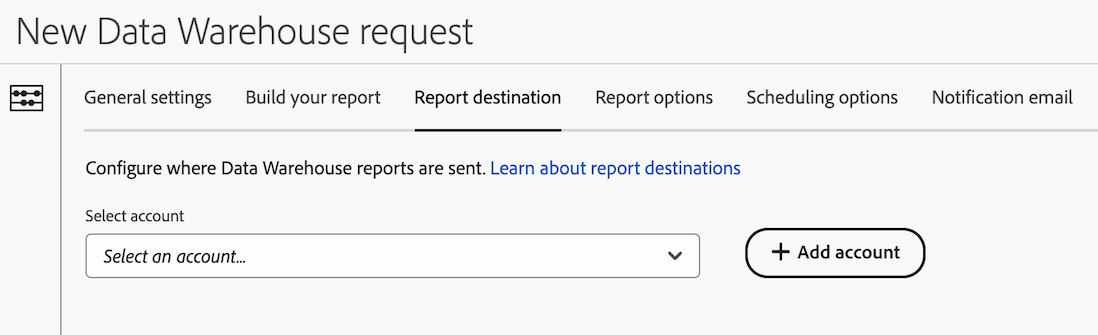
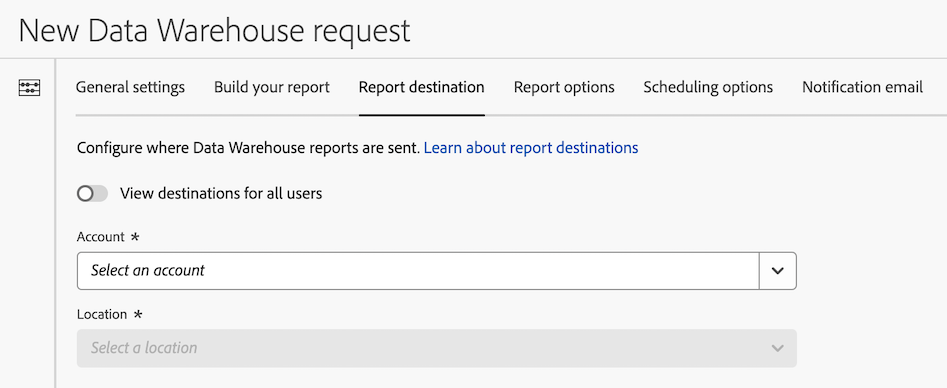
Customer feedback updates

Changed region(s): [[0.0, 0.0299, 1.0, 1.0], [0.0919, 0.8657, 0.2144, 0.9254], [0.6125, 0.806, 0.6431, 0.8358]]

diff --git a/help/export/data-warehouse/create-request/dw-request-report-destinations.md b/help/export/data-warehouse/create-request/dw-request-report-destinations.md
@@ -46,7 +46,7 @@ To configure the destination where Data Warehouse reports are sent:
    >
    >If you are a system administrator, the [!UICONTROL **Show all destinations**] option is available. Enable this option if you want to have access to all accounts and locations that were created by any user in the organization.
    
-   1. Select the account from the [!UICONTROL **Select account**] drop-down menu.
+   1. Select the account from the [!UICONTROL **Account**] drop-down menu.
 
       Any cloud accounts that you configured in any of the following areas of Adobe Analytics are available to use:
       
@@ -60,26 +60,30 @@ To configure the destination where Data Warehouse reports are sent:
 
 1. (Conditional) If you don't have access to a cloud account that is already configured in Adobe Analytics, you can configure one:
 
-   1. Select [!UICONTROL **Add account**], then specify the following information:
+   1. Select the [!UICONTROL **Account**] drop-down menu, then select [!UICONTROL **Add account**].
+   
+   1. On the Add account dialog box, specify the following information:
 
       |Field | Function | 
       |---------|----------|
-      | [!UICONTROL **Account type**] | Select your cloud account type. We recommend having a single account for each account type, with multiple locations as needed within that account. <p>After choosing an account type, fields specific to that account type appear. </p>| 
-      | [!UICONTROL **Account name**] | Specify a name for the account. This name appears when creating a location. <!-- true? --> | 
-      | [!UICONTROL **Account description**] | Provide a short description of the account to help differentiate it from other accounts of the same account type. |
+      | [!UICONTROL **Location account name**] | The name of the location account. This name appears when creating a location | 
+      | [!UICONTROL **Location account description**] | Provide a short description of the account to help differentiate it from other accounts of the same account type. |
+      | [!UICONTROL **Make account available to all users in your organization**] | Enable this option to allow other users in your organization to use the account.<p>Consider the following when sharing accounts:</p><ul><li>Accounts that you share cannot be unshared.</li><li>Shared accounts can be edited only by the owner of the account.</li><li>Anyone can create a location for the shared account.</li></ul> |
+      | [!UICONTROL **Account type**] | Select your cloud account type. We recommend having a single account for each account type, with multiple locations as needed within that account.<p>System administrators can limit the account types that users can create, as described in [Configure whether users can create accounts](/help/components/locations/locations-manager.md#configure-whether-users-can-create-accounts). If you can't create accounts as described in this section, contact your system administrator.</p> | 
 
-      For configuration instructions, expand the section below that corresponds to the [!UICONTROL **Account type**] that you selected.
+   1. In the [!UICONTROL **Account properties**] section, specify information specific to the account type that you selected.  
 
-      Use any of the following account types when configuring a report destination. For configuration instructions, expand the account type. (Additional [legacy destinations](#legacy-destinations) are also available, but are not recommended.) 
+      For configuration instructions, expand the section below that corresponds to the [!UICONTROL **Account type**] that you selected. (Additional legacy account types are also available, but are not recommended.)
 
-      +++Amazon S3
+      **Account types**
+
+      +++Amazon S3 Role ARN
 
          To configure an Amazon S3 Role ARN account, specify the following information:
 
          |Field | Function | 
          |---------|----------|
-         | [!UICONTROL **Role ARN**] | You must provide a Role ARN (Amazon Resource Name) that Adobe can use to gain access to the Amazon S3 account. To do this, you create an IAM permission policy for the source account, attach the policy to a user, and then create a role for the destination account. For specific information, see [this AWS documentation](https://aws.amazon.com/premiumsupport/knowledge-center/cross-account-access-iam/).<p>For information about how to set up the permission of the bucket, see the article [How can I provide cross-account access to objects that are in Amazon S3 buckets?](https://repost.aws/knowledge-center/cross-account-access-s3) in the Amazon knowledge center. | 
-         | [!UICONTROL **User ARN**] | The User ARN (Amazon Resource Name) is provided by Adobe. You must attach this user to the policy you created. | 
+         | [!UICONTROL **Role ARN**] | You must provide a Role ARN (Amazon Resource Name) that Adobe can use to gain access to the Amazon S3 account. To do this, you create an IAM permission policy for the source account, attach the policy to a user, and then create a role for the destination account. For specific information, see [this AWS documentation](https://aws.amazon.com/premiumsupport/knowledge-center/cross-account-access-iam/). | 
 
          {style="table-layout:auto"}
 
@@ -105,9 +109,9 @@ To configure the destination where Data Warehouse reports are sent:
          |---------|----------|
          | [!UICONTROL **Application ID**] | Copy this ID from the Azure application that you created. In Microsoft Azure, this information is located on the **Overview** tab within your application. For more information, see the [Microsoft Azure documentation about how to register an application with the Microsoft identity platform](https://learn.microsoft.com/en-us/azure/active-directory/develop/quickstart-register-app). | 
          | [!UICONTROL **Tenant ID**] | Copy this ID from the Azure application that you created. In Microsoft Azure, this information is located on the **Overview** tab within your application. For more information, see the [Microsoft Azure documentation about how to register an application with the Microsoft identity platform](https://learn.microsoft.com/en-us/azure/active-directory/develop/quickstart-register-app). |
-         | [!UICONTROL **Key vault URI**] | <p>The path to the SAS URI in Azure Key Vault.  To configure Azure SAS, you need to store an SAS URI as a secret using Azure Key Vault. For information, see the [Microsoft Azure documentation about how to set and retrieve a secret from Azure Key Vault](https://learn.microsoft.com/en-us/azure/key-vault/secrets/quick-create-portal?source=recommendations).</p><p>After the key vault URI is created:<ul><li>Add an access policy on the Key Vault in order to grant permission to the Azure application that you created.</li><li>Make sure the Application ID has been granted the `Key Vault Certificate User` built-in role in order to access the key vault URI.</br><p>For more information, see [Azure built-in roles](https://learn.microsoft.com/en-us/azure/role-based-access-control/built-in-roles).</p></li></ul><p>For information, see the [Microsoft Azure documentation about how to assign a Key Vault access policy](https://learn.microsoft.com/en-us/azure/key-vault/general/assign-access-policy?tabs=azure-portal).</p> | 
-         | [!UICONTROL **Key vault secret name**] | The secret name you created when adding the secret to Azure Key Vault. In Microsoft Azure, this information is located in the Key Vault you created, on the **Key Vault** settings pages. For information, see the [Microsoft Azure documentation about how to set and retrieve a secret from Azure Key Vault](https://learn.microsoft.com/en-us/azure/key-vault/secrets/quick-create-portal?source=recommendations). |
-         | [!UICONTROL **Secret**] | Copy the secret from the Azure application that you created. In Microsoft Azure, this information is located on the **Certificates & secrets** tab within your application. For more information, see the [Microsoft Azure documentation about how to register an application with the Microsoft identity platform](https://learn.microsoft.com/en-us/azure/active-directory/develop/quickstart-register-app). |
+         | [!UICONTROL **Key vault URI**] | <p>The path to the SAS token in Azure Key Vault.  To configure Azure SAS, you must store an SAS token as a secret using Azure Key Vault. For information, see the [Microsoft Azure documentation about how to set and retrieve a secret from Azure Key Vault](https://learn.microsoft.com/en-us/azure/key-vault/secrets/quick-create-portal?source=recommendations).</p><p>After the key vault URI is created, add an access policy on the Key Vault to grant permission to the Azure application that you created. For information, see the [Microsoft Azure documentation about how to assign a Key Vault access policy](https://learn.microsoft.com/en-us/azure/key-vault/general/assign-access-policy?tabs=azure-portal).</p> | 
+         | [!UICONTROL **Key vault secret name**] | The secret name that you created when adding the secret to Azure Key Vault. In Microsoft Azure, this information is located in the Key Vault you created, on the **Key Vault** settings page. For information, see the [Microsoft Azure documentation about how to set and retrieve a secret from Azure Key Vault](https://learn.microsoft.com/en-us/azure/key-vault/secrets/quick-create-portal?source=recommendations). |
+         | [!UICONTROL **Location account secret**] | Copy the secret from the Azure application that you created. In Microsoft Azure, this information is located on the **Certificates & secrets** tab within your application. For more information, see the [Microsoft Azure documentation about how to register an application with the Microsoft identity platform](https://learn.microsoft.com/en-us/azure/active-directory/develop/quickstart-register-app). |
 
          {style="table-layout:auto"}
 
@@ -121,7 +125,7 @@ To configure the destination where Data Warehouse reports are sent:
          |---------|----------|
          | [!UICONTROL **Application ID**] | Copy this ID from the Azure application that you created. In Microsoft Azure, this information is located on the **Overview** tab within your application. For more information, see the [Microsoft Azure documentation about how to register an application with the Microsoft identity platform](https://learn.microsoft.com/en-us/azure/active-directory/develop/quickstart-register-app). | 
          | [!UICONTROL **Tenant ID**] | Copy this ID from the Azure application that you created. In Microsoft Azure, this information is located on the **Overview** tab within your application. For more information, see the [Microsoft Azure documentation about how to register an application with the Microsoft identity platform](https://learn.microsoft.com/en-us/azure/active-directory/develop/quickstart-register-app). | 
-         | [!UICONTROL **Secret**] | Copy the secret from the Azure application that you created. In Microsoft Azure, this information is located on the **Certificates & secrets** tab within your application. For more information, see the [Microsoft Azure documentation about how to register an application with the Microsoft identity platform](https://learn.microsoft.com/en-us/azure/active-directory/develop/quickstart-register-app). | 
+         | [!UICONTROL **Location account secret**] | Copy the secret from the Azure application that you created. In Microsoft Azure, this information is located on the **Certificates & secrets** tab within your application. For more information, see the [Microsoft Azure documentation about how to register an application with the Microsoft identity platform](https://learn.microsoft.com/en-us/azure/active-directory/develop/quickstart-register-app). | 
 
          {style="table-layout:auto"}
 
@@ -129,72 +133,15 @@ To configure the destination where Data Warehouse reports are sent:
 
       +++Email
 
-         To configure an email account, specify the following information:
+         >[!NOTE]
+         >
+         >Email accounts can be used only with [Data Feeds](/help/export/analytics-data-feed/create-feed.md). (Email accounts are not supported with [Data Warehouse](/help/export/data-warehouse/create-request/dw-request-report-destinations.md) or [Classification sets](/help/components/classifications/sets/overview.md)).
+      
+         To configure an Azure RBAC account, specify the following information:
 
          |Field | Function | 
          |---------|----------|
-         | [!UICONTROL **Recipients**] | Email notifications can be sent to specific users when the report is sent. Specify a single email address or a comma-separated list of email addresses. <!-- How does this differ from the Notification email tab? -->| 
-
-   1. Select [!UICONTROL **Add location**], then specify the following information:
-   
-      |Field | Function | 
-      |---------|----------|
-      | [!UICONTROL **Name**] | The name of the location.  | 
-      | [!UICONTROL **Description**] | Provide a short description of the account to help differentiate it from other accounts of the same account type. |
-      | [!UICONTROL **Location account**] | Select the location account that you created in [Add an account](#add-an-account). | 
-
-   1. In the [!UICONTROL **Location properties**] section, specify information specific to the account type of your location account.  
-
-      For configuration instructions, expand the section below that corresponds to the [!UICONTROL **Account type**] that you selected previously. 
-
-      +++Amazon S3
-
-         To configure an Amazon S3 location, specify the following information:
-
-         |Field | Function | 
-         |---------|----------|
-         | [!UICONTROL **Bucket name**] | The bucket within your Amazon S3 account where you want Adobe Analytics data to be sent. <p>Ensure that the User ARN that was provided by Adobe has the `S3:PutObject` permission in order to upload files to this bucket. This permission allows the User ARN to upload initial files and overwrite files for subsequent uploads.</p><p>Bucket names must meet specific naming rules. For example, they must be between 3 to 63 characters long, can consist only of lowercase letters, numbers, dots (.), and hyphens (-), and must begin and end with a letter or number. [A complete list of naming rules are available in the AWS documentation](https://docs.aws.amazon.com/AmazonS3/latest/userguide/bucketnamingrules.html). </p> |  
-         | [!UICONTROL **Key prefix**] | The folder within the bucket where you want to put the data. Specify a folder name, then add a backslash after the name to create the folder. For example, folder_name/ | 
-
-         {style="table-layout:auto"}
-
-      +++
-
-      +++Google Cloud Platform
-
-         To configure a Google Cloud Platform location, specify the following information:
-
-         |Field | Function | 
-         |---------|----------|
-         | [!UICONTROL **Bucket name**] | The bucket within your GCP account where you want Adobe Analytics data to be sent. <p>Ensure that you have granted either of the following permissions to the Principal provided by Adobe: (For information about granting permissions, see [Add a principal to a bucket-level policy](https://cloud.google.com/storage/docs/access-control/using-iam-permissions#bucket-add) in the Google Cloud documentation.)<ul><li>`roles/storage.objectCreator`: Use this permission if you  want to limit the Principal to only create files in your GCP account. </br>**Important:** If you use this permission with scheduled reporting, you must use a unique file name for each new scheduled export. Otherwise, the report generation will fail because the Principal does not have access to overwrite existing files.</li><li>`roles/storage.objectUser`: Use this permission if you want the Principal to have access to view, list, update, and delete files in your GCP account.</br>This permission allows the Principal to overwrite existing files for subsequent uploads, without the need to auto-generate unique file names for each new scheduled export.</li></ul><p>If your organization is using [Organization policy constraints](https://cloud.google.com/storage/docs/org-policy-constraints) to allow only the Google Cloud Platform account in your allow list, you need the following Adobe-owned Google Cloud Platform organization ID: <ul><li>`DISPLAY_NAME`: `adobe.com`</li><li>`ID`: `178012854243`</li><li>`DIRECTORY_CUSTOMER_ID`: `C02jo8puj`</li></ul> </p>|  
-         | [!UICONTROL **Key prefix**] | The folder within the bucket where you want to put the data. Specify a folder name, then add a backslash after the name to create the folder. For example, folder_name/ | 
-
-         {style="table-layout:auto"}
-   
-      +++
-
-      +++Azure SAS
-
-         To configure an Azure SAS location, specify the following information:
-
-         |Field | Function | 
-         |---------|----------|
-         | [!UICONTROL **Container name**] | The container within the account you specified where you want Adobe Analytics data to be sent. | 
-         | [!UICONTROL **Key prefix**] | The folder within the container where you want to put the data. Specify a folder name, then add a backslash after the name to create the folder. For example, `folder_name/`<p>Make sure that the SAS URI store that you specified in the Key Vault secret name field when configuring the Azure SAS account has the `Write` permission. This allows the SAS URI to create files in your Azure container. <p>If you want the SAS URI to also overwrite files, make sure that the SAS URI store has the `Delete` permission.</p><p>For more information, see [Blob storage resources](https://learn.microsoft.com/en-us/azure/storage/blobs/storage-blobs-introduction#blob-storage-resources) in the Azure Blob Storage documentation.</p>|
-
-         {style="table-layout:auto"}
-
-      +++   
-
-      +++Azure RBAC
-
-         To configure an Azure RBAC location, specify the following information:
-
-         |Field | Function | 
-         |---------|----------|
-         | [!UICONTROL **Container name**] | The container within the account you specified where you want Adobe Analytics data to be sent. Ensure that you grant permissions to upload files to the Azure application that you created earlier. | 
-         | [!UICONTROL **Key prefix**] | The folder within the container where you want to put the data. Specify a folder name, then add a backslash after the name to create the folder. For example, `folder_name/`<p>Make sure the Application ID that you specified when configuring the Azure RBAC account has been granted the `Storage Blob Data Contributor` role in order to access the container (folder).</p> <p>For more information, see [Azure built-in roles](https://learn.microsoft.com/en-us/azure/role-based-access-control/built-in-roles).</p>|
-         | [!UICONTROL **Account name**] | The   Azure storage account. | 
+         | [!UICONTROL **Recipients**] | Email notifications can be sent to specific users when the report is sent. Specify a single email address or a comma-separated list of email addresses. | 
 
          {style="table-layout:auto"}
 
@@ -202,7 +149,7 @@ To configure the destination where Data Warehouse reports are sent:
       
 1. Continue configuring your Data Warehouse request on the [!UICONTROL **Report options**] tab. For more information, see [Configure report options for a Data Warehouse request](/help/export/data-warehouse/create-request/dw-request-report-options.md).
 
-## Legacy destinations
+## Legacy account types
 
 >[!IMPORTANT]
 >

diff --git a/help/components/metrics/unique-devices.md b/help/components/metrics/unique-devices.md
@@ -12,13 +12,13 @@ The 'Unique devices' [metric](overview.md) is a [Cross-device analytics](../cda/
 
 For each device, sum all distinct people tied to it (including anonymous if the device contains non-stitched hits).
 
-Note that this metric is not equal to [Unique Visitors](unique-visitors.md) in non-CDA report suites. For example, a device is shared by 3 different accounts. If all 3 accounts visit your site in a reporting window, the resulting report would show 3 Unique Devices in CDA. The same data outside of CDA would show 1 Unique Visitor.
+Note that this metric is not equal to [Unique Visitors](unique-visitors.md) in non-CDA report suites. For example, a device is shared by 3 different accounts. If all 3 accounts visit your site in a reporting window, the resulting report would show 3 unique devices in CDA. The same data outside of CDA would show 1 Unique Visitor.
 
 ## Example
 
-1. Sally arrives to your site on his phone through an ad, but is not logged in.
+1. Sally arrives to your site by phone through an ad, but is not logged in.
 1. Sally wants to make a purchase, but would prefer to do it on the family computer because she is already logged in there. On the family computer, she makes a purchase.
-1. The next day, she checks his order on his phone and authenticates there.
+1. The next day, she checks her order on her phone and authenticates there.
 1. Bob's wife, Alice, browses your site while logged in to her account on the family computer.
 1. Bob's brother, Charles, also browses your site while logged in to his account on the family computer.
 
